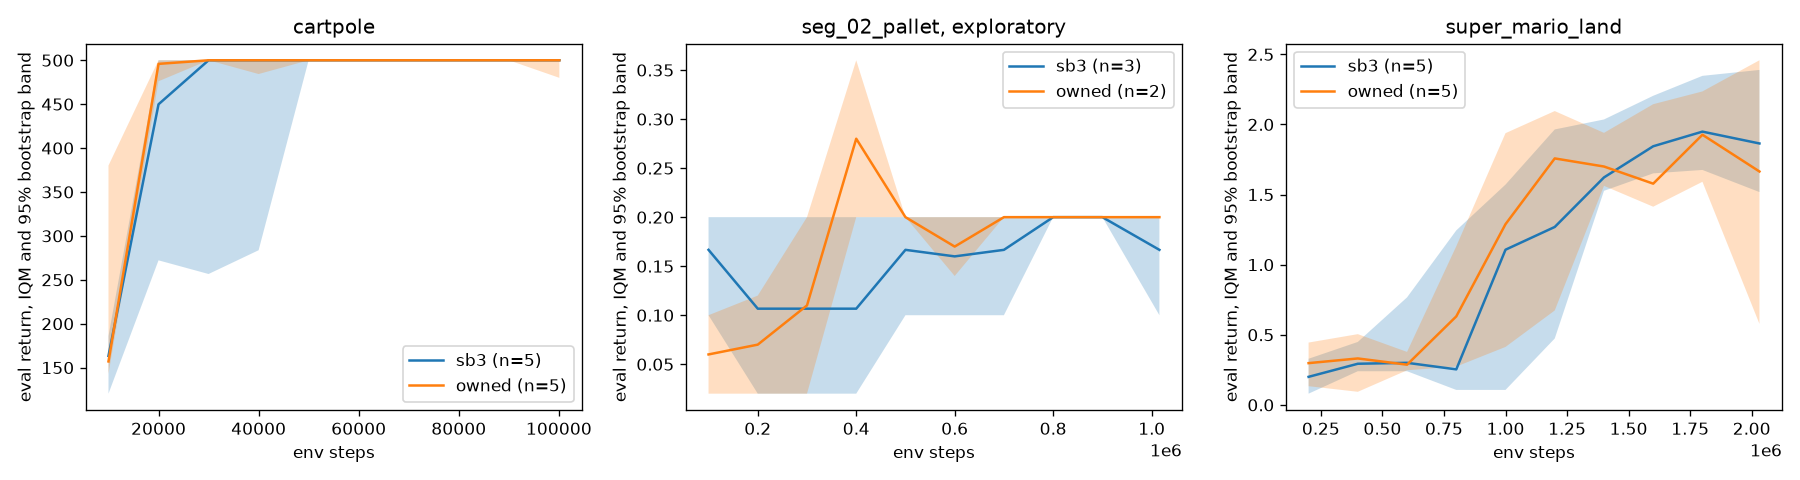
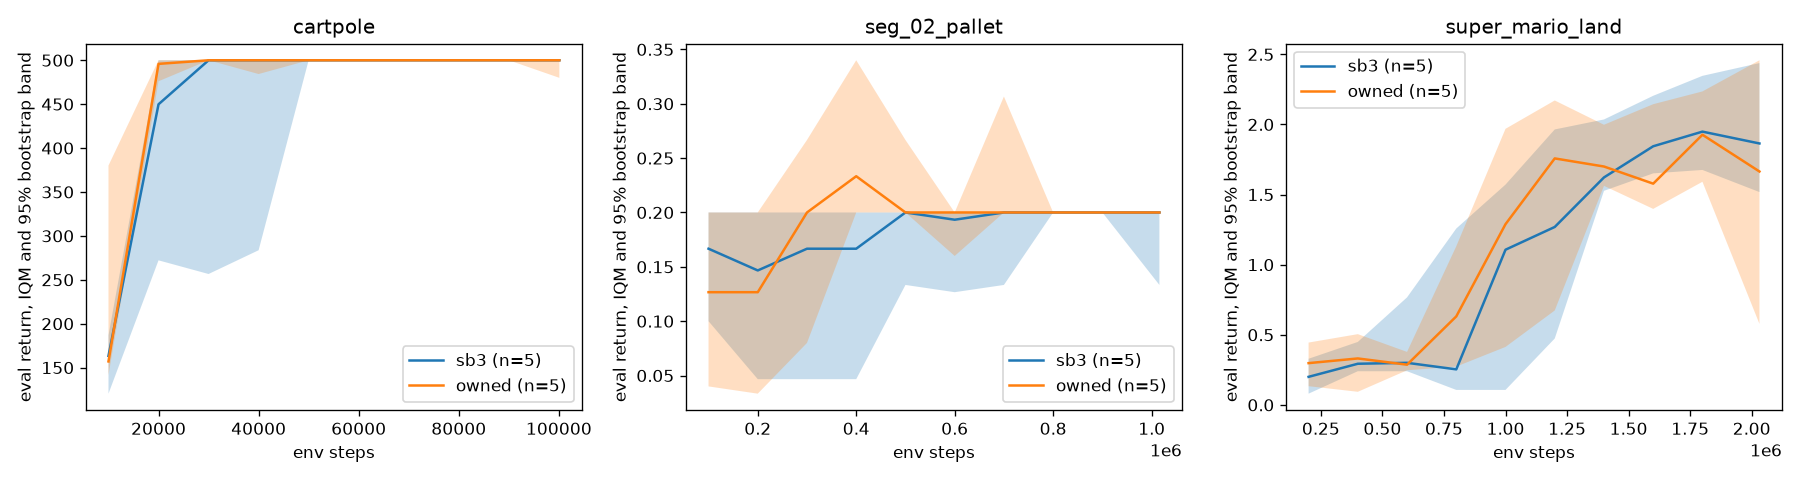
Draw the parity gate with the stats module, on matched seeds
OPS-05's stats.py has landed, so the IQM and band come from it rather
than a second copy. The script refuses a task whose trainers ran
different seeds. The figure now has seeds 0 to 4 on both sides of all
three tasks.

diff --git a/scripts/parity.py b/scripts/parity.py
@@ -4,16 +4,19 @@
 
 Each task is a folder of run directories from both trainers; a run directory with `-owned-` in
 its name is the owned trainer's. The curve is the IQM over seeds of eval.csv's mean_return, with
-a 95% percentile bootstrap band over seeds. The gate passes on a task when the two bands
+a 95% percentile bootstrap band over seeds, both from algoarcade.training.stats (OPS-05). The gate passes on a task when the two bands
 intersect at the last checkpoint and at 8 or more of 10 evenly spaced checkpoints.
 """
 
 import csv
+import json
 from pathlib import Path
 
 import matplotlib as mpl
 import numpy as np
 import tyro
+
+from algoarcade.training import stats
 
 mpl.use("Agg")
 import matplotlib.pyplot as plt
@@ -23,23 +26,10 @@ POINTS = 10
 NEEDED = 8
 
 
-def iqm(scores: np.ndarray) -> np.ndarray:
-    """The interquartile mean over axis 0: scipy.stats.trim_mean(scores, 0.25), which cuts
-    int(0.25 * n) values from each end. Below four seeds it cuts nothing and is the mean."""
-    n = len(scores)
-    cut = int(0.25 * n)
-    return np.sort(scores, axis=0)[cut : n - cut].mean(axis=0)
-
-
-def bootstrap(
-    scores: np.ndarray, resamples: int = 2000, seed: int = 0
-) -> tuple[np.ndarray, np.ndarray]:
-    """A 95% percentile interval of the IQM, resampling whole seeds (rows) with replacement."""
-    rng = np.random.default_rng(seed)
-    rows = rng.integers(len(scores), size=(resamples, len(scores)))
-    estimates = np.stack([iqm(scores[r]) for r in rows])
-    low, high = np.percentile(estimates, [2.5, 97.5], axis=0)
-    return low, high
+def curve(scores: np.ndarray) -> tuple[np.ndarray, np.ndarray, np.ndarray]:
+    """IQM and 95% bootstrap interval at each checkpoint (a column of seeds x checkpoints)."""
+    bounds = np.array([stats.interval(column) for column in scores.T])
+    return np.array([stats.iqm(column) for column in scores.T]), bounds[:, 0], bounds[:, 1]
 
 
 def intersect(a: tuple[np.ndarray, np.ndarray], b: tuple[np.ndarray, np.ndarray]) -> np.ndarray:
@@ -47,22 +37,26 @@ def intersect(a: tuple[np.ndarray, np.ndarray], b: tuple[np.ndarray, np.ndarray]
 
 
 def read_runs(task: Path) -> dict[str, tuple[list[int], np.ndarray]]:
-    """Per trainer: the checkpoint steps and a seeds x checkpoints array of mean returns."""
-    curves: dict[str, list[tuple[list[int], list[float]]]] = {t: [] for t in TRAINERS}
+    """Per trainer: the checkpoint steps and a seeds x checkpoints array of mean returns. Both
+    trainers must have run the same seeds and checkpointed at the same steps."""
+    runs: dict[str, dict[int, tuple[list[int], list[float]]]] = {t: {} for t in TRAINERS}
     for run in sorted(task.glob("run_id=*")):
+        seed = json.loads((run / "config.json").read_text())["seed"]
         with (run / "eval.csv").open() as f:
             rows = list(csv.DictReader(f))
         trainer = "owned" if "-owned-" in run.name else "sb3"
-        curves[trainer].append(
-            ([int(r["step"]) for r in rows], [float(r["mean_return"]) for r in rows])
+        runs[trainer][seed] = (
+            [int(r["step"]) for r in rows],
+            [float(r["mean_return"]) for r in rows],
         )
-    out = {}
-    for trainer, runs in curves.items():
-        steps = runs[0][0]
-        if any(s != steps for s, _ in runs):
-            raise ValueError(f"{task}: {trainer} runs checkpoint at different steps")
-        out[trainer] = (steps, np.array([r for _, r in runs]))
-    return out
+    if runs["sb3"].keys() != runs["owned"].keys():
+        raise ValueError(
+            f"{task.name}: seeds differ, {sorted(runs['sb3'])} against {sorted(runs['owned'])}"
+        )
+    steps = next(iter(runs["sb3"].values()))[0]
+    if any(s != steps for by_seed in runs.values() for s, _ in by_seed.values()):
+        raise ValueError(f"{task.name}: runs checkpoint at different steps")
+    return {t: (steps, np.array([runs[t][seed][1] for seed in sorted(runs[t])])) for t in TRAINERS}
 
 
 def main(runs_dir: Path, out: Path) -> None:
@@ -75,13 +69,11 @@ def main(runs_dir: Path, out: Path) -> None:
     for ax, task in zip(axes[0], tasks, strict=True):
         runs = read_runs(task)
         steps = runs["sb3"][0]
-        if runs["owned"][0] != steps:
-            raise ValueError(f"{task.name}: the trainers checkpoint at different steps")
-        bands = {}
+        bands, centres = {}, {}
         for trainer in TRAINERS:
-            scores = runs[trainer][1]
-            bands[trainer] = bootstrap(scores)
-            ax.plot(steps, iqm(scores), label=f"{trainer} (n={len(scores)})")
+            centres[trainer], low, high = curve(runs[trainer][1])
+            bands[trainer] = (low, high)
+            ax.plot(steps, centres[trainer], label=f"{trainer} (n={len(runs[trainer][1])})")
             ax.fill_between(steps, *bands[trainer], alpha=0.25)
         points = np.linspace(0, len(steps) - 1, POINTS).round().astype(int)
         meet = intersect(bands["sb3"], bands["owned"])
@@ -90,8 +82,7 @@ def main(runs_dir: Path, out: Path) -> None:
         label = "" if min(seeds) >= 5 else ", exploratory"
         gate = "pass" if last and hits >= NEEDED else "fail"
         finals = [
-            f"{iqm(runs[t][1])[-1]:.1f} [{bands[t][0][-1]:.1f}, {bands[t][1][-1]:.1f}]"
-            for t in TRAINERS
+            f"{centres[t][-1]:.1f} [{bands[t][0][-1]:.1f}, {bands[t][1][-1]:.1f}]" for t in TRAINERS
         ]
         print(
             f"| {task.name} | {seeds[0]}, {seeds[1]} | {finals[0]} | {finals[1]} "

diff --git a/tests/test_parity.py b/tests/test_parity.py
@@ -3,25 +3,15 @@ import pytest
 
 pytest.importorskip("matplotlib")
 
-from parity import bootstrap, intersect, iqm
+from parity import curve, intersect
 
 
-def test_iqm_cuts_a_quarter_from_each_end() -> None:
-    # OPS-05's hand case.
-    assert iqm(np.array([0, 1, 2, 3, 4, 5, 6, 100])) == 3.5
-    # Below four seeds trim_mean cuts nothing.
-    assert iqm(np.array([1.0, 2.0, 9.0])) == 4.0
-
-
-def test_iqm_is_per_checkpoint() -> None:
-    scores = np.array([[0, 10], [1, 20], [2, 30], [100, 40], [3, 50]])
-    np.testing.assert_array_equal(iqm(scores), [2.0, 30.0])
-
-
-def test_constant_scores_give_a_zero_width_band() -> None:
-    low, high = bootstrap(np.full((5, 3), 0.4))
-    np.testing.assert_allclose(low, [0.4] * 3)
-    np.testing.assert_allclose(high, [0.4] * 3)
+def test_curve_is_per_checkpoint() -> None:
+    scores = np.array([[0, 10], [1, 20], [2, 30], [100, 40], [3, 50]], dtype=float)
+    centre, low, high = curve(scores)
+    np.testing.assert_array_equal(centre, [2.0, 30.0])
+    assert (low <= centre).all()
+    assert (centre <= high).all()
 
 
 def test_bands_intersect_when_they_touch() -> None:
